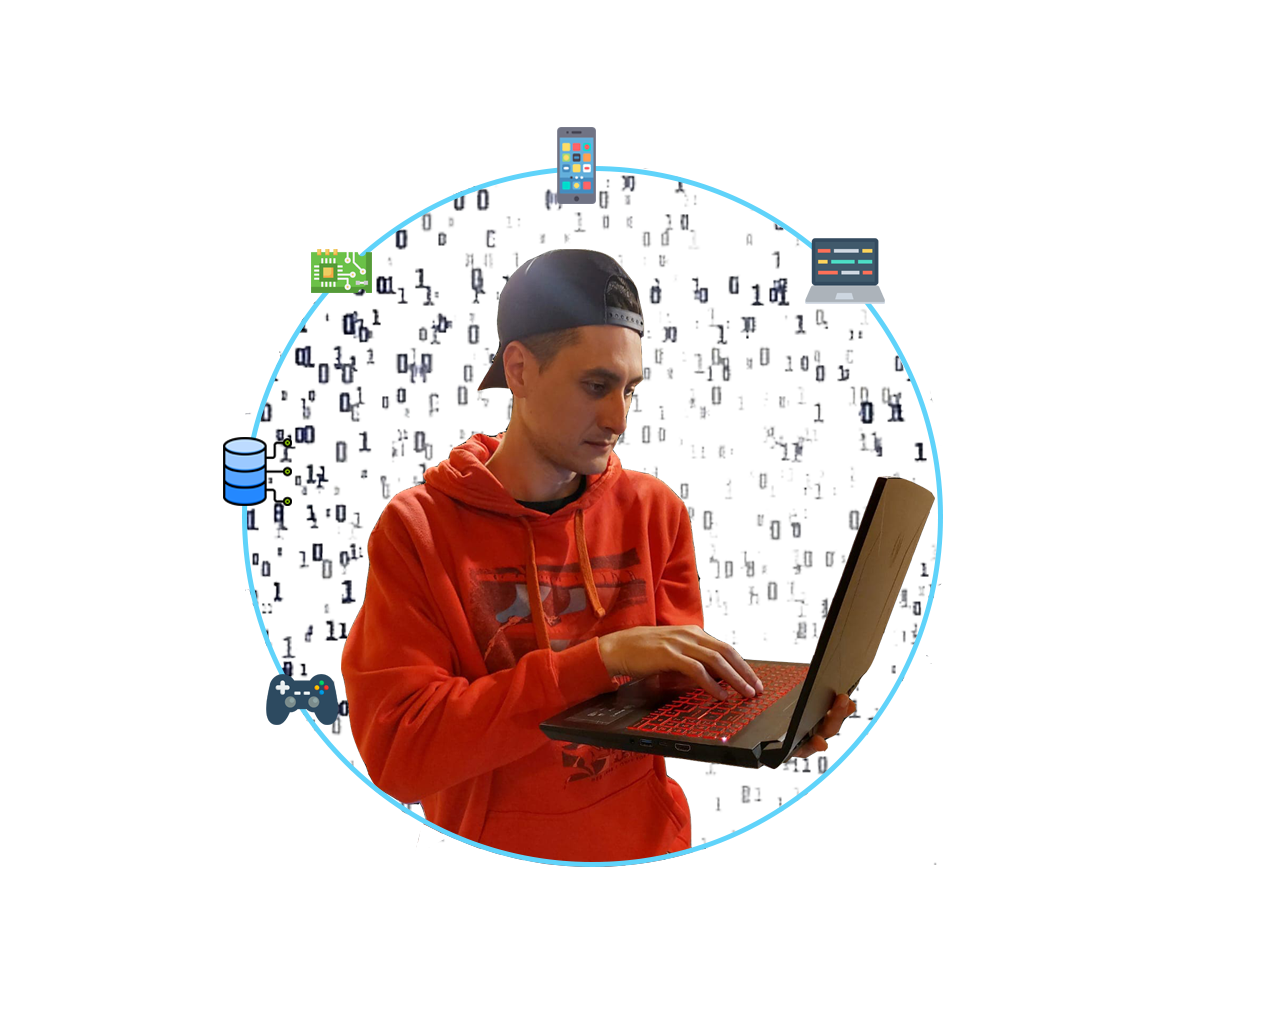
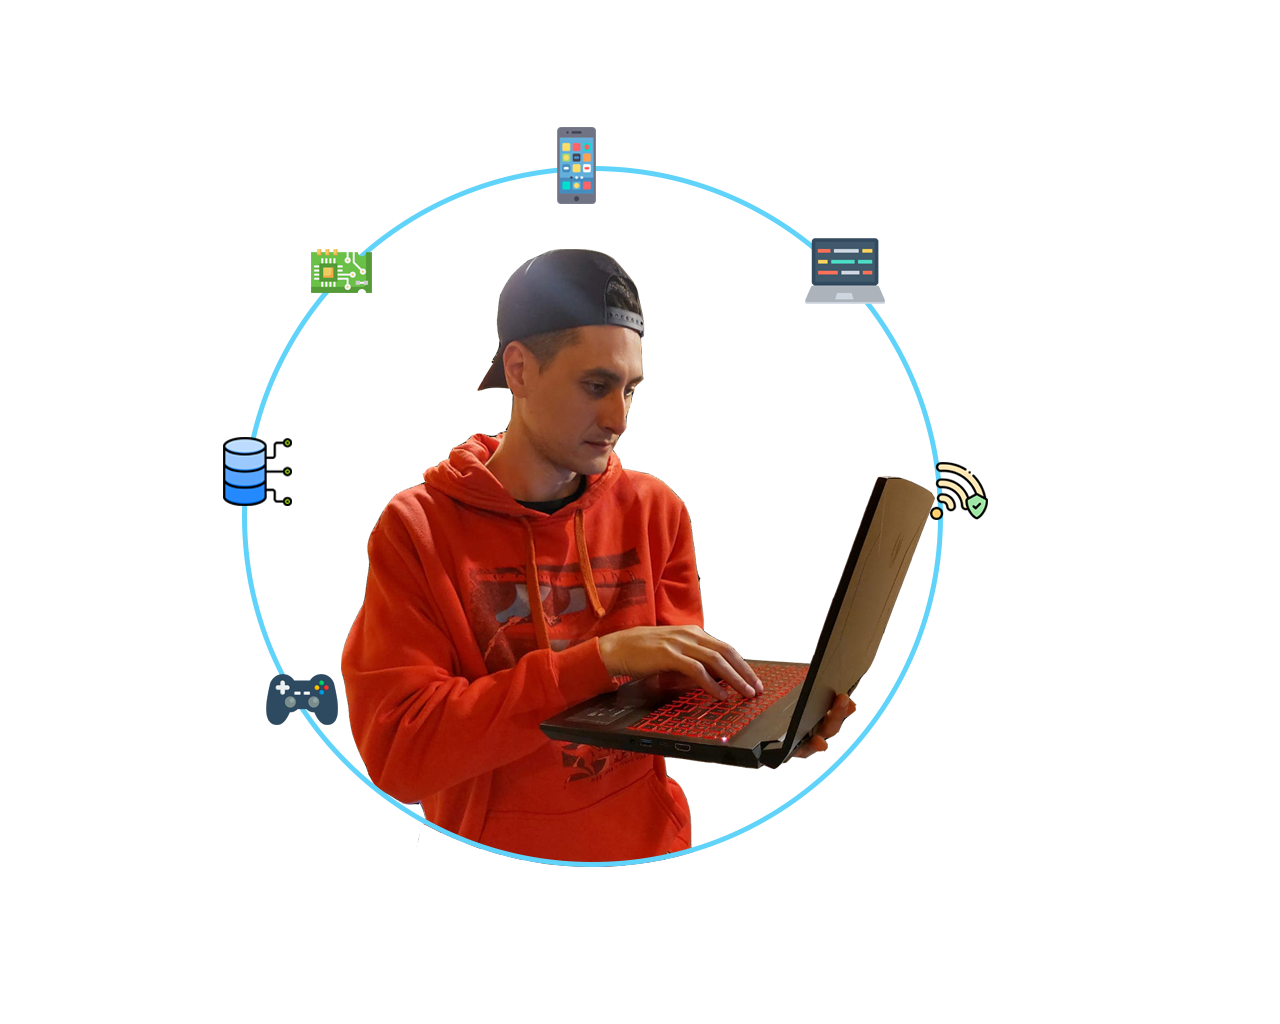
work aboutme section

diff --git a/index.html b/index.html
@@ -417,6 +417,7 @@
 				</h2>
 
 			    <article class="article-about-me">
+					<img class="eze" src="./images/me-portfolio.png" alt="">
 						<div class="about-me-cards">
 								<div class="card-cero">
 									<div class= "background background-cero">
@@ -487,7 +488,7 @@
 							</div>
 
 				   </article>
-					<img class="eze" src="./images/me-portfolio.png" alt="">
+					
 
 				</section>
 				<div class="line3">

diff --git a/style.css b/style.css
@@ -227,7 +227,7 @@ li {
 
 .section {
    padding-block-start: var(--section-padding);
-   padding: 0 15%;
+   padding: 0 10%;
    height: auto;
 }
 
@@ -636,7 +636,8 @@ li {
 }
 
 .eze{
-   width: 600px;
+
+   width: 50%;
    filter: drop-shadow(0 0 1em var(--han-purple)) brightness(115%);
 }
 /*-----------------------------------*\
